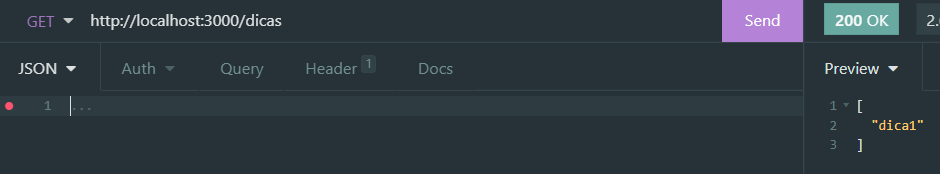
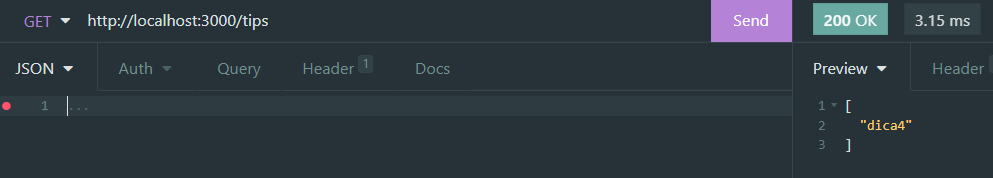
correção do caminho /dicas para /tips no método get, e para /create no método post

diff --git a/src/controllers/Dicas.js b/src/controllers/Dicas.js
@@ -3,12 +3,12 @@ import DicaModel from "../models/DicasModel.js"
 
 class Dicas {
     static rotas(app) {
-        app.get("/dicas", (req, res)=>{
+        app.get("/tips", (req, res)=>{
             const response = DicasMetodos.tips()
             res.status(200).json(response)
         })
 
-        app.post("/dicas", (req, res)=>{
+        app.post("/create", (req, res)=>{
             const dica =  new DicaModel(...Object.values(req.body))
             const response = DicasMetodos.create(dica)
             res.status(201).json(response)
